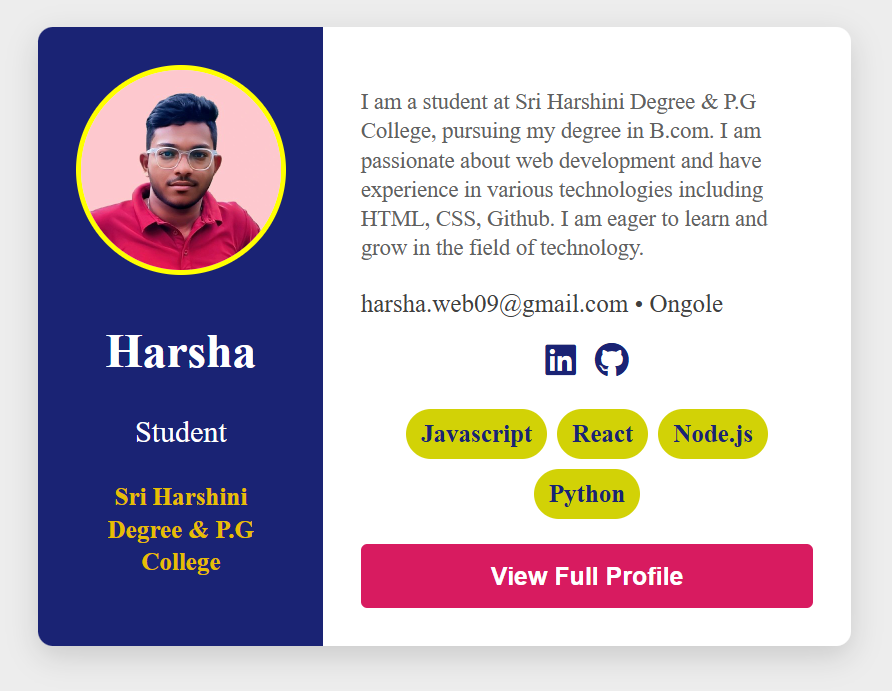
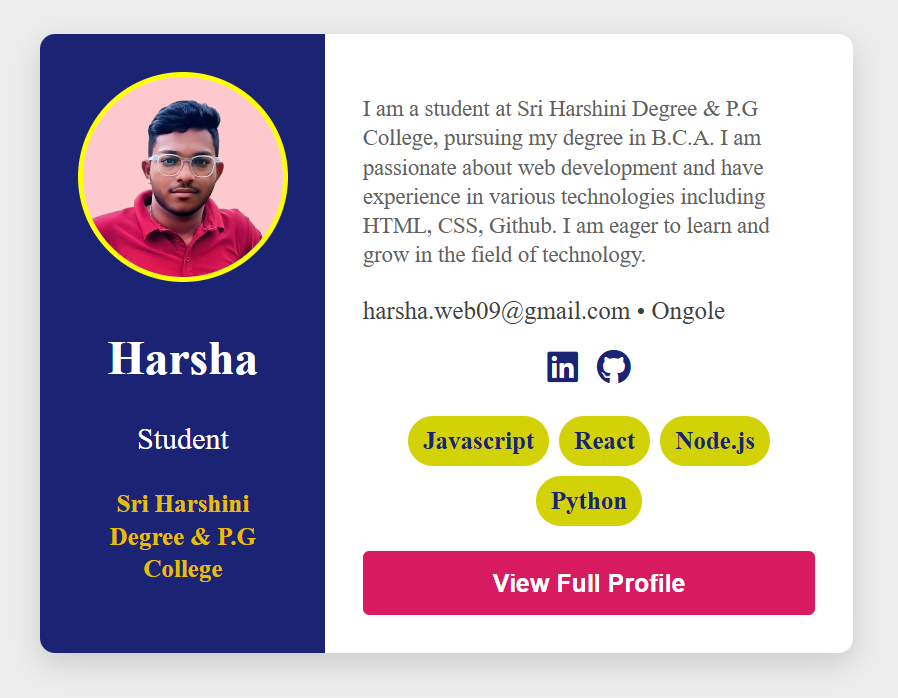
Updated qualification details

diff --git a/index.html b/index.html
@@ -28,7 +28,7 @@
         <div class="main">
           <p class="bio">
             I am a student at Sri Harshini Degree & P.G College, pursuing my
-            degree in B.com. I am passionate about web development and have
+            degree in B.C.A. I am passionate about web development and have
             experience in various technologies including HTML, CSS, Github. I am
             eager to learn and grow in the field of technology.
           </p>
